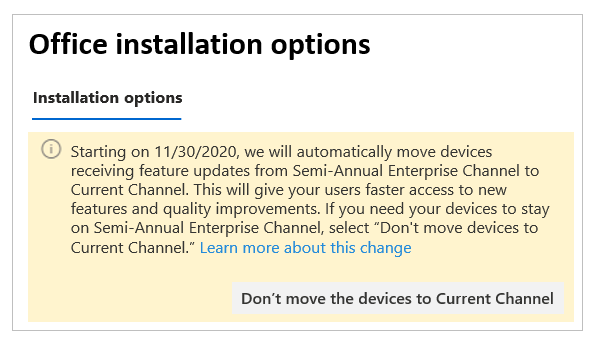
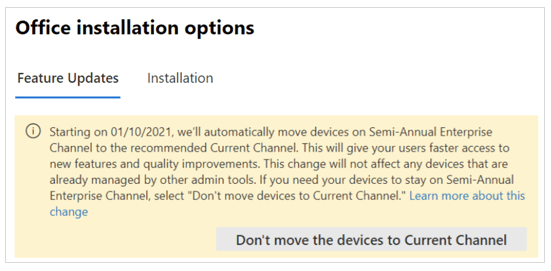
Update callouts text & image

Changed region(s): [[0.0, 0.0, 1.0, 1.0]]

diff --git a/DeployOffice/other/move-devices-current-channel.md b/DeployOffice/other/move-devices-current-channel.md
@@ -14,7 +14,7 @@ hideEdit: true
 # Move devices to Current Channel
 
 > [!IMPORTANT]
-> The information in this article applies only to organizations that received a Message center post entitled "Microsoft 365 Apps channel selection will be set to Current Channel for all installations of Office" in the Microsoft 365 admin center.
+> The information in this article applies only to organizations that received a Message center post (in the Microsoft 365 admin center) about their Office devices being moved from Semi-Annual Enterprise Channel to Current Channel.
 
 Your update channel selection on the **Office installation options** page in the Microsoft 365 admin center is currently defaulted to Semi-Annual Enterprise Channel. In the next several weeks, this selection will change to Current Channel, which is our recommended update channel.
 
@@ -29,7 +29,8 @@ This selection will apply to both new and existing installations of the Office a
 If you change your selection on the **Office installation options** page at a later time, new and existing installations of Office will begin using that update channel. Keep in mind that changing to a different update channel also changes which features are available to your users. For more information about which features are available in each update channel, see [Release notes for Microsoft 365 Apps releases](/officeupdates/release-notes-microsoft365-apps#release-notes-for-microsoft-365-apps-releases).
 
 > [!IMPORTANT]
-> If you're already using some other method, such as Group Policy or Microsoft Endpoint Configuration Manager, to manage how your users get feature updates, then the settings you select in the Microsoft 365 admin center won't apply.
+> - Your choice under **Feature updates** won't apply if you're already using some other method to manage Office on devices in your organization. For example, if you’re using Office policy settings (with Group Policy or Office cloud policy service), Microsoft Endpoint Configuration Manager, Microsoft Intune, or the Office Deployment Tool (either the Channel or the UpdatePath attribute in the [Updates element](../office-deployment-tool-configuration-options.md#updates-element). You’ll need to use that method to change the update channel on those devices instead of using **Office installation options**.
+> - If you’re using the Office Deployment Tool in a different way (for example, specifying the Channel attribute in the [Add element](../office-deployment-tool-configuration-options.md#add-element)), and not any of the other methods mentioned in the previous bullet point, then your choice under **Feature updates** will apply to those devices.
 
 ## What is Current Channel?
 
@@ -45,7 +46,7 @@ For more information about update channels, see [Overview of update channels for
 
 If you don’t want your Office installations to be moved to Current Channel, choose **Don’t move the devices to Current Channel** button in the message on the **Office installation options** page, as shown in the following screenshot.
 
-![Screenshot showing the "Office installation options" page in the Microsoft 365 admin center and showing a message that says devices will be moved to Current Channel.](../images/other/move-devices-current-channel-message-text.png) 
+![Screenshot showing part of the "Office installation options" page in the Microsoft 365 admin center and showing a message that says devices will be moved to Current Channel.](../images/other/move-devices-current-channel-message-text.png) 
 
 > [!NOTE]
 > - The date shown in the screenshot is an example. The date that applies for your organization is listed in the Message center post that you received and will be reflected in the message that appears on the **Office installation options** page.
@@ -53,7 +54,7 @@ If you don’t want your Office installations to be moved to Current Channel, ch
 
 If you choose **Don’t move the devices to Current Channel**, you’ll be taken to another page (similar to the one shown in the following screenshot), where you can choose to move your devices to Monthly Enterprise Channel or to remain on Semi-Annual Enterprise Channel.
 
-![Screenshot showing a page entitled "Don't move the devices to Current Channel" with options to choose to move to Monthly Enterprise Channel or to keep on Semi-Annual Enterprise Channel.](../images/other/move-devices-current-channel-dont-move-page.png) 
+![Screenshot showing a page entitled "Don't move the devices to Current Channel" with options to choose to move to Monthly Enterprise Channel or to keep on Semi-Annual Enterprise Channel.](../images/other/move-devices-current-channel-dont-move-page.png)
 
 Of these two choices, we recommend Monthly Enterprise Channel, because you’ll still receive new features and other updates once a month, but on a predictable schedule (the second Tuesday of each month).
 
